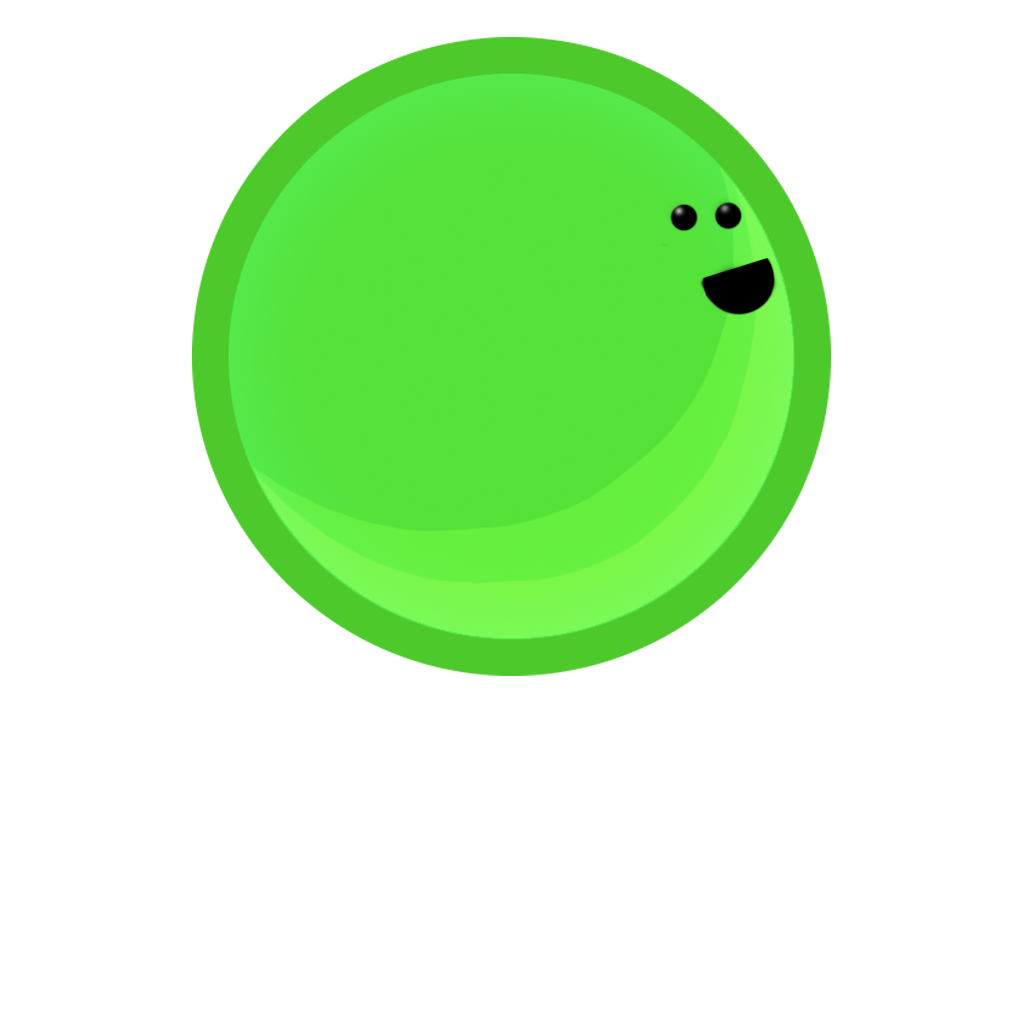
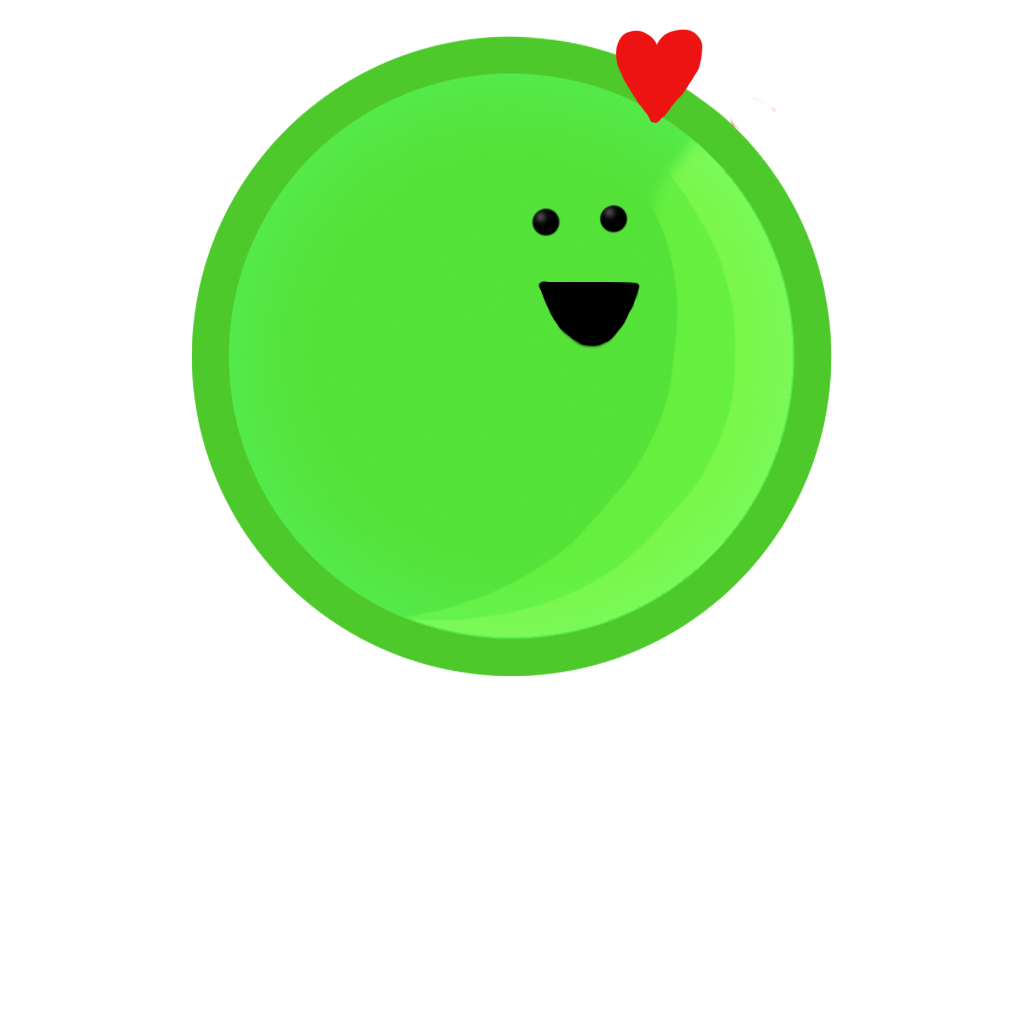
Fixes #6 & new test case design

diff --git a/src/js/main.js b/src/js/main.js
@@ -21,7 +21,7 @@ const ctx = canvas.getContext('2d');
 // -------------------------------------
 
 const imageSources = [
-    './assets/heart.png', './assets/play.png',
+    './assets/heart.png', './assets/play.png','./assets/correct.png', './assets/wrong.png',
 
     './assets/gray-worm/body.png', './assets/gray-worm/head.png',
     './assets/gray-worm/leg11.png', './assets/gray-worm/leg12.png', './assets/gray-worm/leg13.png', './assets/gray-worm/leg21.png', './assets/gray-worm/leg22.png',
@@ -51,7 +51,6 @@ function loadAllImages() {
         }
         const splitted = source.split('/');
         const getName = splitted[splitted.length-1].split('.png')[0];
-        console.log(getName)
         images[getName] = image;
     })
 }
@@ -64,9 +63,6 @@ function loadAllImages() {
 // '': gray worm | 'g': green worm | 'r': red worm
 let imagePrefix = '';
 let pause = false;
-
-let worms = [];
-let currentLevel = null;
 
 let replayState = false;
 let replyBut = {};
@@ -81,20 +77,40 @@ let lives = 3;
 let score = 0;
 const incScore = 10;
 
+let worms = [];
+let levelIndex = 0;
+let currentLevel = selectLevel();
+
+let wormSelected = false;
 // -------------------------------------
 //           LEVEL HANDLER
 // -------------------------------------
 
 // starts a random level
 function start() {
-    currentLevel = selectLevel();
+    //currentLevel = selectLevel();
     updateMatchList();
     moveTheWorm()
 }
 
-// selects random level
+// selects random level with hardness based on score
 function selectLevel() {
-    return levels[Math.floor(Math.random() * levels.length)]
+    const hardness = getHardness(score);
+
+    if(levelIndex >= levels[hardness].length) {
+        levelIndex = 0;
+        return levels[hardness][0]
+    }
+
+    return levels[hardness][levelIndex++]
+}
+
+//hardness based on score
+function getHardness(score) {
+    if(score < 10) return 'easy'
+    else if(score >= 10 && score < 20) return 'normal'
+    else if(score >= 20 && score < 30) return 'hard'
+    else return 'very hard'
 }
 
 // initialize winning or loosing screen
@@ -146,12 +162,20 @@ function playNextLevel() {
 
 // clear level and reset full game after lose
 function lostGame() {
+    clearLevel()
     timeForLvl = 1.5 * 60 * 1000;
     lives = 3;
     currentLevel = selectLevel();
-    clearLevel()
+    replayState = true;
     drawLooseScreen(score)
 }
+
+function checkForLose() {
+    if (timeForLvl <= 0 || lives <= 0) {
+        lostGame()
+    }
+}
+
 // won game. add + 20 seceonds
 function wonGame() {
     drawAddTimerSeconds(incTimer)
@@ -165,20 +189,20 @@ function updateMatchList() {
     currentLevel.match.forEach(match => {
         const item = document.createElement('li');
         item.innerText = match;
+        const wrong = document.createElement('img');
+        wrong.src = './assets/wrong.png'
+        item.insertAdjacentElement('afterbegin', wrong)
         matchList.insertAdjacentElement('beforeend', item)
     })
 
     currentLevel.dontMatch.forEach(dontMatch => {
         const item = document.createElement('li');
         item.innerText = dontMatch;
+        const wrong = document.createElement('img');
+        wrong.src = './assets/wrong.png'
+        item.insertAdjacentElement('afterbegin', wrong)
         dontMatchList.insertAdjacentElement('beforeend', item)
     })
-}
-
-function checkForLose() {
-    if (timeForLvl <= 0 || lives <= 0) {
-        lostGame()
-    }
 }
 
 // -------------------------------------
@@ -187,14 +211,14 @@ function checkForLose() {
 
 // moves and spawns worms
 function moveTheWorm() {
-    // spawning worms
+    // spawns worms
     spawningIntervallID = setInterval(() => {
         if (!pause) {
             createWorms(1);
         }
     }, 1000);
 
-    // moving all worms
+    // moves all worms
     intervallID = setInterval(() => {
         if (!pause) { 
             ctx.clearRect(0, 0, canvas.width, canvas.height)
@@ -219,7 +243,7 @@ function moveTheWorm() {
 // & the selected in the middle
 function moveToXPosition(worms, winningWorm, index) {
     worms.splice(index, 1)
-    let win, filter = null;
+    let win = null;
     let onlyOnce = true;
 
     // move worm down
@@ -281,7 +305,6 @@ function moveToXPosition(worms, winningWorm, index) {
                         let imagePrefix = win ? 'g' : 'r';
                         winningWorm.imgPrefix = imagePrefix;
                         winningWorm.buildWorm();
-                        console.log(winningWorm.imgPrefix);
 
                         replayState = true;
                         onlyOnce = false;
@@ -299,7 +322,7 @@ function moveToXPosition(worms, winningWorm, index) {
 function drawLevelAdditionals() {
     drawClock(timeForLvl)
     drawHearts(lives);
-    drawCurrentTask()
+    drawCurrentTask(getHardness(score))
     drawScoreBoard(score);
 }
 
@@ -331,10 +354,10 @@ function regexValidate(regex) {
 
         const check = checkRegex(regex, string);
         if (check) {
-            li.style.color = '#66e35f'
+            li.querySelector('img').src = './assets/correct.png'
             return true;
         } else {
-            li.style.color = '#e35f5f'
+            li.querySelector('img').src = './assets/wrong.png'
             return false;
         }
     });
@@ -344,10 +367,10 @@ function regexValidate(regex) {
 
         const check = checkRegex(regex, string);
         if (check) {
-            li.style.color = '#e35f5f'
+            li.querySelector('img').src = './assets/wrong.png'
             return false;
         } else {
-            li.style.color = '#66e35f'
+            li.querySelector('img').src = './assets/correct.png'
             return true;
         }
     });
@@ -398,10 +421,9 @@ window.addEventListener('load', () => {
     canvas.addEventListener('mousedown', (e) => {
         if(replayState || pause) {
             const cursor = getCursorPosition2(canvas, e)
-
             if (cursor.x > replyBut.x && cursor.x < replyBut.x + replyBut.w) {
-                if (cursor.y > replyBut.y - replyBut.w && cursor.y < replyBut.y + replyBut.w) {
-                    console.log('reeeeplay');
+                if (cursor.y > replyBut.y - replyBut.w && cursor.y < replyBut.y + replyBut.w) {                                           
+                    wormSelected = false; // put worm selected to false
                     if(pause) {
                         canvas.style = null
                         pause = false;

diff --git a/src/js/levels.js b/src/js/levels.js
@@ -1,13 +1,43 @@
-const levels = [{
-        mission: 'Match only numbers',
-        regex: ['321089433', '3210894332'],
-        match: ['1234', '35345', '32108943', '809342', '7812379'],
-        dontMatch: ['ads', 'fdsfsd', '/)(§%$', ')(/)/', '(/??']
-    },
-    {
-        mission: 'Match only letters',
-        regex: ['[a-zA-Z]', '/w', '[^0-9]', 'abc'],
-        match: ['adsdsa', 'gfggf', 'khjkjkh', 'hjkhh', 'hjkjk'],
-        dontMatch: ['/)(§%$', ')(/)/', '32108943', '809342', '7812379']
-    }, 
-]
+const levels = {
+    easy: [
+        {
+            mission: 'Match only numbers',
+            regex: ['[0-9]', '0-9', '[0123456789]', '[1-9]', '\d', '/d', 'digits', 'num'],
+            match: ['1234', '35345', '32108943', '809342', '7812379', '123'],
+            dontMatch: ['Im not a number', 'letter', '$%§&/"%&', '  space  ', '___']
+        },
+        {
+            mission: 'Match only letters',
+            regex: ['[a-zA-Z]', '/w', '[^0-9]', 'abc', '[^a-z]', 'a-zA-Z', 'letter', '\w'],
+            match: ['adsdsa', 'gfggf', 'khjkjkh', 'hjkhh', 'hjkjk'],
+            dontMatch: ['/)(§%$', ')(/)/', '32108943', '809342', '7812379']
+        },
+    ],
+
+    normal: [
+        {
+            mission: 'Match exactly "Worm"',
+            regex: ['{Worm}', 'Worm', '^Worm+$', '-Worm$', 'Worm:Worm', '[^Worm$]', '^Worm+$', 'Worm', '\Worm/'],
+            match: ['Worm', 'Worm', 'Worm', 'Worm', 'Worm'],
+            dontMatch: ['Worms', 'MyWorms', 'Worming', 'Worms are awesome', 'awesome']
+        },
+    ],
+
+    hard: [
+        {
+            mission: 'Match exactly "Worm" or "Dog"',
+            regex: ['{Worm}', '^Worm+$', 'Worm|Dog', '-Worm$', 'Worm:Worm', '[^Worm$]', '^Worm+$', 'Worm', '\Worm/'],
+            match: ['Worm Dog', 'Worm', 'Dog', 'WormDog', 'Worms'],
+            dontMatch: ['WorDogms', 'MyDogWorm', 'WoormDoogs', 'Worms and Dogs are awesome', 'awesome']
+        }, 
+    ],
+
+    'very hard': [
+        {
+            mission: 'Match ending with "ing"',
+            regex: ['<.*ing\>', 'ing\b', '^[ing]+$', '-ing$', 'end:ing', '[^ing$]', '^ing+$', '[end:]ing', '\ing'],
+            match: ['ending', 'living', 'loving', 'hiking', 'balling'],
+            dontMatch: ['ingen', 'inga', 'endingme', '0123', 'abcde']
+        },
+    ]
+}

diff --git a/src/styles/styles.css b/src/styles/styles.css
@@ -46,6 +46,7 @@ body, html {
     background-color: aqua;
 }
 .bottom-left {
+    border-top: 4px solid tomato;
     width: 35%;
     background-color: rgb(71, 71, 71);
     padding: 20px;
@@ -54,7 +55,15 @@ body, html {
 .bottom-left * {
     padding: 5px;
 }
+
+.bottom-left h1 {
+    color: rgba(255, 255, 255, 0.6);
+    width: 100%;
+    border-bottom: 3px solid rgba(255, 255, 255, 0.6);
+}
+
 .bottom-right {
+    border-top: 4px solid tomato;
     width: 65%;
     background-color: rgb(29, 29, 29);
     padding: 20px;
@@ -145,8 +154,37 @@ body, html {
     
 }
 #match {
+    margin-left: 10px;
+    width: 50%;
+}
+#match h2 {
+    text-align: center;
+    border-bottom: 2px solid rgba(255, 255, 255, 0.5);
+}
+
+#no-match {
+    width: 50%;
     margin-left: 50px;
 }
-#no-match {
-    margin-left: 50px;
+#no-match h2 {
+    text-align: center;
+    border-bottom: 2px solid rgba(255, 255, 255, 0.5);
+}
+
+.test-cases ul {
+    display: flex;
+    justify-content: flex-start;
+    align-items: flex-start;
+    flex-direction: column;
+}
+.test-cases ul li {
+    display: flex;
+    justify-content: flex-start;
+    align-items: center;
+    border-bottom: 1px solid rgba(255, 255, 255, 0.185);
+    margin-left: 0;
+    width: 100%;
+}
+.test-cases ul li img {
+    height: 15px;
 }

diff --git a/src/js/game.js b/src/js/game.js
@@ -88,7 +88,8 @@ function getCursorPosition(canvas, event) {
     console.log(x, y)
 
     const [selectedWorm, index] = getClickedWorm(x, y);
-    if (!selectedWorm) return;
+    if (!selectedWorm || wormSelected) return;
+    wormSelected = true;
     winingScreen(selectedWorm, index)
 }
 
@@ -181,7 +182,25 @@ function drawScoreBoard(score) {
     ctx.closePath();
 }
 
-function drawCurrentTask() {
+function drawCurrentTask(hardness='easy') {
+    // level hardness
+    const colorSelector = {
+        easy: "#60BF78",
+        normal: "#60ACBF",
+        hard: "#BF6060",
+        'very hard': "#8760B7" 
+    }
+    
+    const color = colorSelector[hardness] 
+
+    ctx.beginPath();
+    ctx.font = "20px Impact";
+    ctx.textBaseline = "middle";
+    ctx.fillStyle = color;
+    ctx.textAlign = "center";
+    ctx.fillText(hardness, (canvas.width / 2), 15);
+    ctx.closePath();
+    // mission
     ctx.beginPath();
     ctx.font = "40px Impact";
     ctx.textBaseline = "middle";
@@ -189,6 +208,7 @@ function drawCurrentTask() {
     ctx.textAlign = "center";
     ctx.fillText(currentLevel.mission, (canvas.width / 2), 50);
     ctx.closePath();
+    // click on worm text
     ctx.beginPath();
     ctx.font = "15px Arial";
     ctx.textBaseline = "middle";

diff --git a/index.html b/index.html
@@ -35,13 +35,13 @@
         <div class="bottom-left">
             <h1>Test Cases</h1>
             <div id="testcase-container">
-                <div id="match">
+                <div id="match" class="test-cases">
                     <h2>Match these</h2>
                     <ul>
 
                     </ul>
                 </div>
-                <div id="no-match">
+                <div id="no-match" class="test-cases">
                     <h2>Dont Match these</h2>
                     <ul>
 
